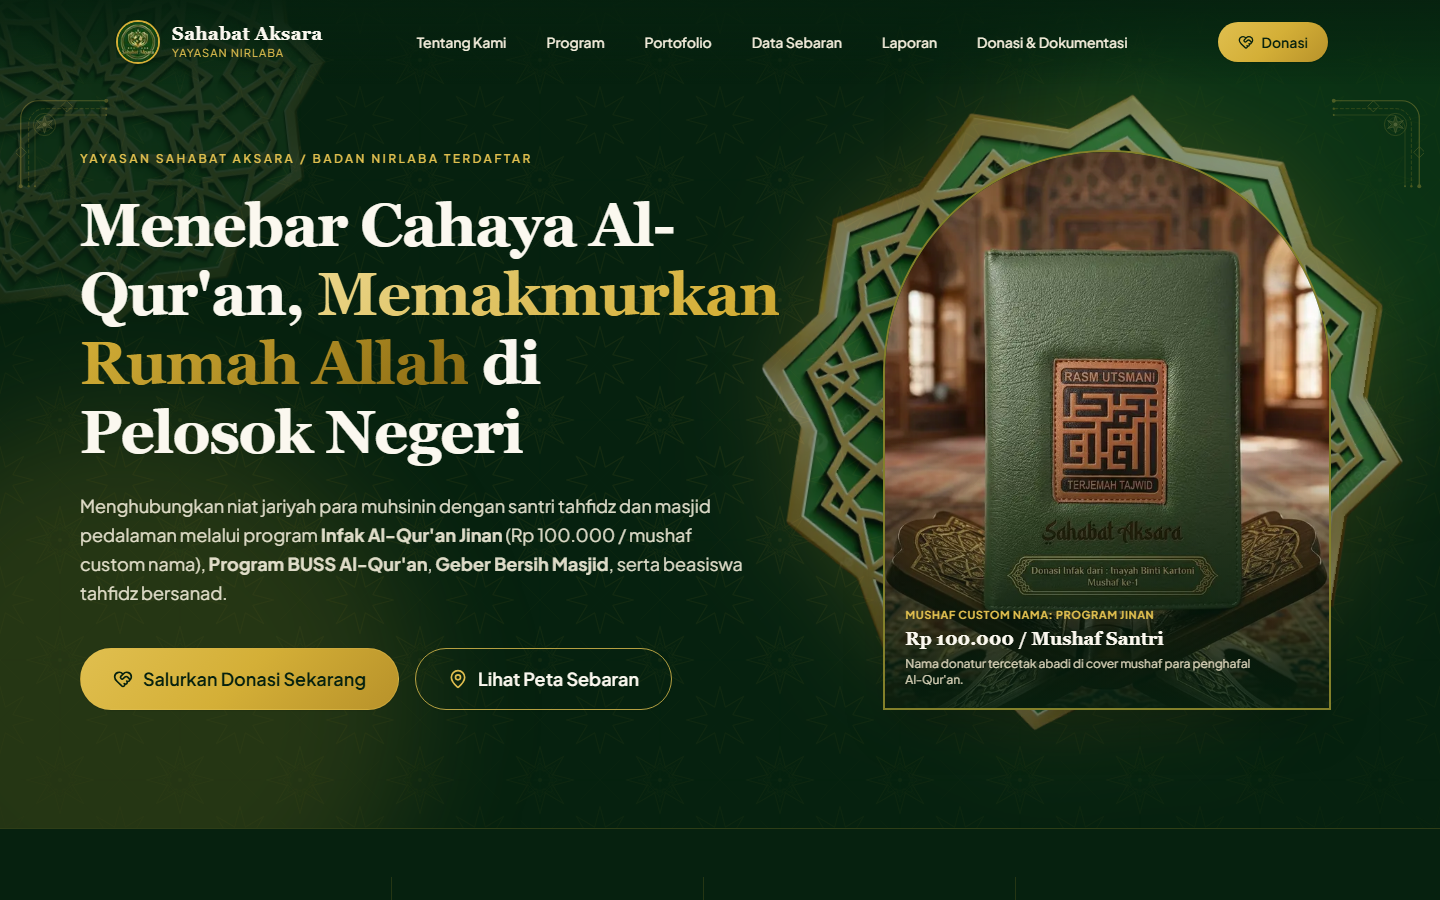
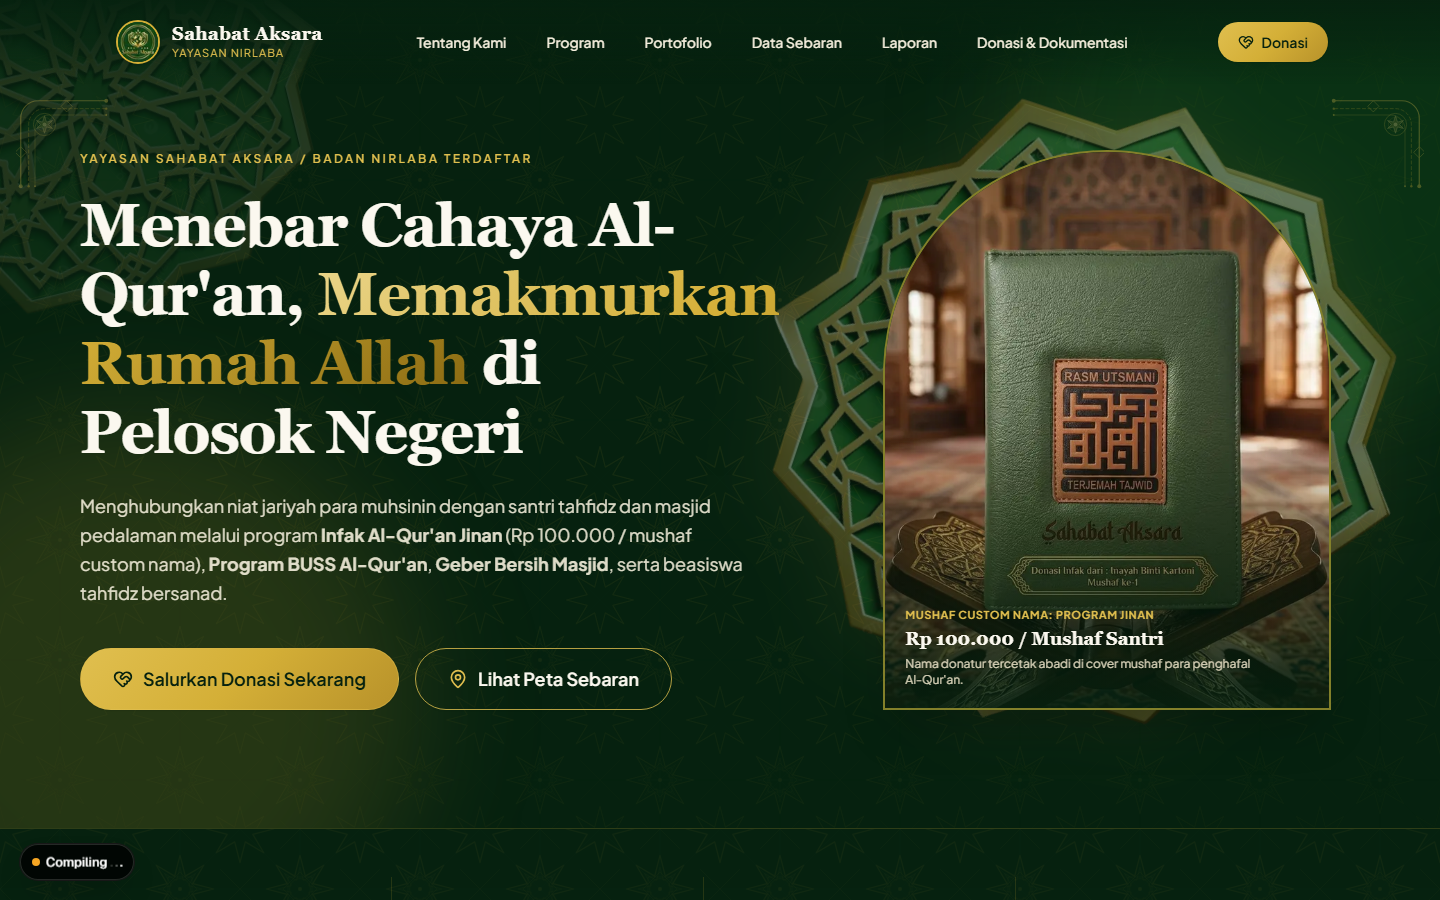
feat(ui): sesuaikan transparansi siluet mandala, motif seragam seluruh halaman publik, dan animasi zoom-in preloader

diff --git a/src/app/(public)/page.tsx b/src/app/(public)/page.tsx
@@ -19,6 +19,7 @@ import StatCounter from "@/components/motion/StatCounter";
 import HeroShowcase from "@/components/sections/HeroShowcase";
 import IndonesiaMap from "@/components/sections/IndonesiaMap";
 import Button from "@/components/ui/Button";
+import IslamicCornerOrnament from "@/components/ui/IslamicCornerOrnament";
 
 export const revalidate = 60;
 
@@ -60,7 +61,8 @@ export default async function HomePage() {
       <HeroShowcase totalMushaf={stats.totalMushaf} totalMasjid={stats.totalMasjid} />
 
       {/* 2. PROOF & MARQUEE STRIP (Integrated Metrics & Values) */}
-      <section className="relative bg-[var(--green-950)] text-[var(--cream-50)] border-t border-b border-[var(--gold-500)]/20">
+      <section className="relative bg-[var(--green-950)] text-[var(--cream-50)] border-t border-b border-[var(--gold-500)]/20 overflow-hidden">
+        <div className="absolute inset-0 bg-islamic-pattern opacity-15 pointer-events-none" />
         {/* Metric Bar Monolitik */}
         <div className="max-w-7xl mx-auto px-4 sm:px-6 lg:px-8 py-10 sm:py-12">
           <div className="grid grid-cols-2 lg:grid-cols-4 gap-6 lg:gap-8 divide-y lg:divide-y-0 lg:divide-x divide-[var(--gold-500)]/15">
@@ -373,7 +375,23 @@ export default async function HomePage() {
       </section>
 
       {/* 5. LIVE BUKTI SEBARAN NASIONAL (Full-Bleed Dark Green-950) */}
-      <section className="py-24 sm:py-32 bg-[var(--green-950)] text-[var(--cream-50)] px-4 sm:px-6 lg:px-8 border-b border-[var(--gold-500)]/20">
+      <section className="py-24 sm:py-32 bg-[var(--green-950)] text-[var(--cream-50)] px-4 sm:px-6 lg:px-8 border-b border-[var(--gold-500)]/20 relative overflow-hidden">
+        <div className="absolute inset-0 bg-islamic-pattern opacity-20 pointer-events-none" />
+        {/* Islamic Star Mandala Watermark Silhouette */}
+        <div className="absolute -right-24 -top-24 w-[480px] h-[480px] opacity-15 pointer-events-none select-none will-change-transform animate-spin-slow">
+          <Image
+            src="/images/ornaments/islamic-star-mandala.webp"
+            alt=""
+            fill
+            className="object-contain"
+          />
+        </div>
+        <div className="absolute top-6 left-6 opacity-25 pointer-events-none select-none hidden sm:block">
+          <IslamicCornerOrnament size={80} />
+        </div>
+        <div className="absolute top-6 right-6 opacity-25 pointer-events-none select-none -scale-x-100 hidden sm:block">
+          <IslamicCornerOrnament size={80} />
+        </div>
         <div className="max-w-7xl mx-auto space-y-10">
           <div className="text-center max-w-3xl mx-auto">
             <div className="text-xs uppercase tracking-[0.2em] text-[var(--gold-400)] font-semibold mb-2">
@@ -508,6 +526,29 @@ export default async function HomePage() {
       {/* 7. GRAND CALL TO ACTION (Full-Bleed Dark Green-950) */}
       <section className="py-24 sm:py-32 bg-[var(--green-950)] text-[var(--cream-50)] text-center px-4 relative overflow-hidden">
         <div className="absolute inset-0 bg-islamic-pattern opacity-25 pointer-events-none" />
+        {/* Islamic Star Mandala Watermark Silhouette */}
+        <div className="absolute -left-28 -bottom-28 w-[500px] h-[500px] opacity-15 pointer-events-none select-none will-change-transform animate-spin-slow">
+          <Image
+            src="/images/ornaments/islamic-star-mandala.webp"
+            alt=""
+            fill
+            className="object-contain"
+          />
+        </div>
+        <div className="absolute -right-28 -top-28 w-[500px] h-[500px] opacity-15 pointer-events-none select-none will-change-transform animate-spin-reverse-slow">
+          <Image
+            src="/images/ornaments/islamic-star-mandala.webp"
+            alt=""
+            fill
+            className="object-contain"
+          />
+        </div>
+        <div className="absolute top-6 left-6 opacity-25 pointer-events-none select-none hidden sm:block">
+          <IslamicCornerOrnament size={80} />
+        </div>
+        <div className="absolute top-6 right-6 opacity-25 pointer-events-none select-none -scale-x-100 hidden sm:block">
+          <IslamicCornerOrnament size={80} />
+        </div>
         <div className="relative z-10 max-w-3xl mx-auto flex flex-col items-center">
           <div className="text-xs uppercase tracking-[0.2em] text-[var(--gold-400)] font-semibold mb-4">
             Sedekah Jariyah Mengalir Tiada Putus

diff --git a/src/components/motion/Preloader.tsx b/src/components/motion/Preloader.tsx
@@ -58,8 +58,9 @@ export default function Preloader() {
     }
     if (curtainRef.current) {
       gsap.to(curtainRef.current, {
-        yPercent: -100,
-        duration: 0.35,
+        scale: 1.35,
+        opacity: 0,
+        duration: 0.4,
         ease: "power2.inOut",
         onComplete: handleComplete,
       });
@@ -117,7 +118,7 @@ export default function Preloader() {
         tl.to(
           mandalaRef.current,
           {
-            opacity: 0.9,
+            opacity: 0.42,
             scale: 1,
             duration: 1.2,
             ease: "power2.out",
@@ -239,45 +240,47 @@ export default function Preloader() {
         );
       }
 
-      // 6. Living Ambient Breathing on Emblem (2.2s -> 4.3s)
+      // 6. Living Ambient Breathing on Emblem (2.0s -> 2.8s)
       if (emblemRef.current) {
         tl.to(
           emblemRef.current,
           {
             scale: 1.03,
-            duration: 1.0,
+            duration: 0.8,
             yoyo: true,
             repeat: 1,
             ease: "sine.inOut",
           },
-          2.2
+          2.0
         );
       }
 
-      // 7. Content Soft Fade Out (4.3s -> 4.55s)
+      // 7. Cinematic Zoom-In Exit Transition (2.8s -> 3.55s)
+      // Content & Emblem zoom in towards the camera/viewer
       if (contentRef.current) {
         tl.to(
           contentRef.current,
           {
+            scale: 1.85,
             opacity: 0,
-            y: -14,
-            duration: 0.25,
+            duration: 0.65,
             ease: "power2.in",
           },
-          4.3
+          2.8
         );
       }
 
-      // 8. Green Curtain Wipe Up (4.55s -> 5.1s)
+      // 8. Green Curtain expands and dissolves into the home page
       if (curtainRef.current) {
         tl.to(
           curtainRef.current,
           {
-            yPercent: -100,
-            duration: 0.55,
-            ease: "power4.inOut",
+            scale: 1.35,
+            opacity: 0,
+            duration: 0.75,
+            ease: "power2.inOut",
           },
-          4.55
+          2.8
         );
       }
     }, containerRef);
@@ -352,13 +355,13 @@ export default function Preloader() {
             ref={emblemRef}
             className="relative w-44 h-44 sm:w-52 sm:h-52 flex items-center justify-center mb-6 will-change-transform"
           >
-            {/* Grand Islamic Star Mandala Medallion (from user motif) */}
+            {/* Grand Islamic Star Mandala Medallion (Silhouette Watermark) */}
             <div
               ref={mandalaRef}
-              className="absolute -inset-14 sm:-inset-20 pointer-events-none select-none flex items-center justify-center will-change-transform"
+              className="absolute -inset-14 sm:-inset-20 pointer-events-none select-none flex items-center justify-center will-change-transform mix-blend-screen"
               style={{ opacity: 0, transform: "scale(0.85)" }}
             >
-              <div className="relative w-64 h-64 sm:w-80 sm:h-80 drop-shadow-[0_0_35px_rgba(212,175,55,0.45)]">
+              <div className="relative w-64 h-64 sm:w-80 sm:h-80 drop-shadow-[0_0_25px_rgba(212,175,55,0.35)]">
                 <Image
                   src="/images/ornaments/islamic-star-mandala.webp"
                   alt="Motif Ornamen Bintang Geometri Islami Sahabat Aksara"

diff --git a/src/app/(public)/tentang/page.tsx b/src/app/(public)/tentang/page.tsx
@@ -5,6 +5,7 @@ import InteractiveLogoHotspots from "@/components/sections/InteractiveLogoHotspo
 import Button from "@/components/ui/Button";
 import PageHeader from "@/components/ui/PageHeader";
 import { Quote, HeartHandshake, ShieldCheck } from "lucide-react";
+import IslamicCornerOrnament from "@/components/ui/IslamicCornerOrnament";
 
 export const metadata: Metadata = {
   title: "Tentang Kami & Makna Filosofis Logo",
@@ -169,6 +170,21 @@ export default function TentangPage() {
       {/* 4. VISI & MISI (Sacral Dark Emerald Section) */}
       <section className="py-24 sm:py-32 bg-[var(--green-950)] text-[var(--cream-50)] px-4 sm:px-6 lg:px-8 relative overflow-hidden border-y border-[var(--gold-500)]/20">
         <div className="absolute inset-0 bg-islamic-pattern opacity-25 pointer-events-none" />
+        {/* Islamic Star Mandala Watermark Silhouette */}
+        <div className="absolute -right-24 top-10 w-[500px] h-[500px] opacity-15 pointer-events-none select-none will-change-transform animate-spin-slow">
+          <Image
+            src="/images/ornaments/islamic-star-mandala.webp"
+            alt=""
+            fill
+            className="object-contain"
+          />
+        </div>
+        <div className="absolute top-6 left-6 opacity-25 pointer-events-none select-none hidden sm:block">
+          <IslamicCornerOrnament size={80} />
+        </div>
+        <div className="absolute top-6 right-6 opacity-25 pointer-events-none select-none -scale-x-100 hidden sm:block">
+          <IslamicCornerOrnament size={80} />
+        </div>
         <div className="relative z-10 max-w-5xl mx-auto space-y-16">
           {/* Vision Statement */}
           <div className="text-center space-y-4 max-w-3xl mx-auto">
@@ -277,6 +293,21 @@ export default function TentangPage() {
       {/* 7. GRAND CALL TO ACTION */}
       <section className="py-24 bg-[var(--green-950)] text-[var(--cream-50)] text-center px-4 relative overflow-hidden">
         <div className="absolute inset-0 bg-islamic-pattern opacity-25 pointer-events-none" />
+        {/* Islamic Star Mandala Watermark Silhouette */}
+        <div className="absolute -left-24 -bottom-24 w-[480px] h-[480px] opacity-15 pointer-events-none select-none will-change-transform animate-spin-slow">
+          <Image
+            src="/images/ornaments/islamic-star-mandala.webp"
+            alt=""
+            fill
+            className="object-contain"
+          />
+        </div>
+        <div className="absolute top-6 left-6 opacity-25 pointer-events-none select-none hidden sm:block">
+          <IslamicCornerOrnament size={80} />
+        </div>
+        <div className="absolute top-6 right-6 opacity-25 pointer-events-none select-none -scale-x-100 hidden sm:block">
+          <IslamicCornerOrnament size={80} />
+        </div>
         <div className="relative z-10 max-w-2xl mx-auto space-y-6">
           <h2 className="font-serif text-3xl sm:text-4xl font-bold leading-tight">
             Ingin Mengambil Bagian dalam Perjalanan Ini?

diff --git a/src/components/ui/PageHeader.tsx b/src/components/ui/PageHeader.tsx
@@ -1,6 +1,8 @@
 import Link from "next/link";
+import Image from "next/image";
 import { ChevronRight } from "lucide-react";
 import React from "react";
+import IslamicCornerOrnament from "@/components/ui/IslamicCornerOrnament";
 
 export interface BreadcrumbItem {
   label: string;
@@ -48,9 +50,38 @@ export default function PageHeader({
         type="application/ld+json"
         dangerouslySetInnerHTML={{ __html: JSON.stringify(breadcrumbLd) }}
       />
-      {/* Background Ambient Glow */}
-      <div className="absolute -top-32 right-10 w-80 h-80 bg-[var(--green-800)]/30 rounded-full blur-3xl pointer-events-none" />
-      <div className="absolute -bottom-32 left-10 w-80 h-80 bg-[var(--gold-500)]/10 rounded-full blur-3xl pointer-events-none" />
+      {/* 1. Authentic Islamic Geometric Pattern Background Texture */}
+      <div
+        className="absolute inset-0 bg-islamic-pattern opacity-25 pointer-events-none"
+        style={{
+          maskImage:
+            "radial-gradient(ellipse 85% 75% at 50% 50%, rgba(0,0,0,0.95) 0%, rgba(0,0,0,0.4) 75%, transparent 100%)",
+          WebkitMaskImage:
+            "radial-gradient(ellipse 85% 75% at 50% 50%, rgba(0,0,0,0.95) 0%, rgba(0,0,0,0.4) 75%, transparent 100%)",
+        }}
+      />
+
+      {/* 2. Background Ambient Glow */}
+      <div className="absolute -top-32 right-10 w-96 h-96 bg-[var(--green-800)]/30 rounded-full blur-3xl pointer-events-none" />
+      <div className="absolute -bottom-32 left-10 w-96 h-96 bg-[var(--gold-500)]/12 rounded-full blur-3xl pointer-events-none" />
+
+      {/* 3. Islamic Star Mandala Watermark Silhouette (Right Flank) */}
+      <div className="absolute -right-20 sm:-right-12 top-1/2 -translate-y-1/2 w-[360px] h-[360px] sm:w-[480px] sm:h-[480px] opacity-25 sm:opacity-30 pointer-events-none select-none will-change-transform animate-spin-slow">
+        <Image
+          src="/images/ornaments/islamic-star-mandala.webp"
+          alt=""
+          fill
+          className="object-contain drop-shadow-[0_0_35px_rgba(212,175,55,0.25)]"
+        />
+      </div>
+
+      {/* 4. Corner Arabesque Accents */}
+      <div className="absolute top-24 left-4 opacity-25 pointer-events-none select-none hidden sm:block">
+        <IslamicCornerOrnament size={85} />
+      </div>
+      <div className="absolute top-24 right-4 opacity-25 pointer-events-none select-none -scale-x-100 hidden sm:block">
+        <IslamicCornerOrnament size={85} />
+      </div>
 
       <div className="relative z-10 max-w-7xl mx-auto px-4 sm:px-6 lg:px-8">
         {/* Breadcrumbs */}

diff --git a/src/components/ui/Footer.tsx b/src/components/ui/Footer.tsx
@@ -5,6 +5,7 @@ import Image from "next/image";
 import { usePathname } from "next/navigation";
 import { Heart, Mail, MapPin, ExternalLink } from "lucide-react";
 import { organizationContent } from "@/content/organization";
+import IslamicCornerOrnament from "@/components/ui/IslamicCornerOrnament";
 
 export default function Footer() {
   const pathname = usePathname();
@@ -14,6 +15,35 @@ export default function Footer() {
 
   return (
     <footer className="relative bg-[var(--green-950)] text-[var(--cream-100)] pt-16 pb-12 overflow-hidden border-t-2 border-[var(--gold-500)]/40">
+      {/* 1. Authentic Islamic Geometric Pattern Background Texture */}
+      <div
+        className="absolute inset-0 bg-islamic-pattern opacity-20 pointer-events-none"
+        style={{
+          maskImage:
+            "radial-gradient(ellipse 90% 80% at 50% 50%, rgba(0,0,0,0.95) 0%, rgba(0,0,0,0.4) 75%, transparent 100%)",
+          WebkitMaskImage:
+            "radial-gradient(ellipse 90% 80% at 50% 50%, rgba(0,0,0,0.95) 0%, rgba(0,0,0,0.4) 75%, transparent 100%)",
+        }}
+      />
+
+      {/* 2. Islamic Star Mandala Watermark Silhouette */}
+      <div className="absolute -right-28 -bottom-28 w-[480px] h-[480px] opacity-15 pointer-events-none select-none will-change-transform animate-spin-slow">
+        <Image
+          src="/images/ornaments/islamic-star-mandala.webp"
+          alt=""
+          fill
+          className="object-contain drop-shadow-[0_0_35px_rgba(212,175,55,0.2)]"
+        />
+      </div>
+
+      {/* 3. Corner Arabesque Accents */}
+      <div className="absolute top-4 left-4 opacity-25 pointer-events-none select-none hidden sm:block">
+        <IslamicCornerOrnament size={80} />
+      </div>
+      <div className="absolute top-4 right-4 opacity-25 pointer-events-none select-none -scale-x-100 hidden sm:block">
+        <IslamicCornerOrnament size={80} />
+      </div>
+
       <div className="relative max-w-7xl mx-auto px-4 sm:px-6 lg:px-8">
         <div className="grid grid-cols-1 md:grid-cols-2 lg:grid-cols-4 gap-10 pb-12 border-b border-[var(--gold-500)]/20">
           {/* Col 1: Identity & Legal */}

diff --git a/src/components/sections/HeroShowcase.tsx b/src/components/sections/HeroShowcase.tsx
@@ -31,13 +31,13 @@ export default function HeroShowcase(_props?: HeroShowcaseProps) {
       <div className="absolute -top-40 -right-40 w-[36rem] h-[36rem] bg-[var(--green-800)]/40 rounded-full blur-3xl pointer-events-none" />
       <div className="absolute -bottom-40 -left-40 w-[36rem] h-[36rem] bg-[var(--gold-500)]/15 rounded-full blur-3xl pointer-events-none" />
 
-      {/* 3. Grand Islamic Star Mandala Medallion (Right Side Framing Mushaf Jinan) */}
-      <div className="absolute -right-24 sm:-right-16 lg:right-4 top-1/2 -translate-y-1/2 w-[440px] h-[440px] sm:w-[560px] sm:h-[560px] lg:w-[680px] lg:h-[680px] opacity-40 lg:opacity-50 pointer-events-none select-none will-change-transform animate-spin-slow">
+      {/* 3. Grand Islamic Star Mandala Medallion (Right Side Framing Mushaf Jinan - Siluet Elegan) */}
+      <div className="absolute -right-24 sm:-right-16 lg:right-4 top-1/2 -translate-y-1/2 w-[440px] h-[440px] sm:w-[560px] sm:h-[560px] lg:w-[680px] lg:h-[680px] opacity-30 lg:opacity-35 pointer-events-none select-none will-change-transform animate-spin-slow">
         <Image
           src="/images/ornaments/islamic-star-mandala.webp"
           alt=""
           fill
-          className="object-contain drop-shadow-[0_0_50px_rgba(212,175,55,0.35)]"
+          className="object-contain drop-shadow-[0_0_35px_rgba(212,175,55,0.25)]"
           priority
         />
       </div>

diff --git a/src/app/(public)/donasi/page.tsx b/src/app/(public)/donasi/page.tsx
@@ -66,8 +66,9 @@ export default async function DonasiPage() {
         <BankAccountsList initialAccounts={bankAccounts} />
 
         {/* WhatsApp Confirmation Banner */}
-        <div className="p-8 sm:p-10 rounded-3xl bg-[var(--green-950)] text-[var(--cream-50)] border-2 border-[var(--gold-500)]/40 shadow-2xl flex flex-col md:flex-row items-center justify-between gap-8">
-          <div className="space-y-3 text-center md:text-left">
+        <div className="p-8 sm:p-10 rounded-3xl bg-[var(--green-950)] text-[var(--cream-50)] border-2 border-[var(--gold-500)]/40 shadow-2xl flex flex-col md:flex-row items-center justify-between gap-8 relative overflow-hidden">
+          <div className="absolute inset-0 bg-islamic-pattern opacity-20 pointer-events-none" />
+          <div className="relative z-10 space-y-3 text-center md:text-left">
             <span className="text-xs uppercase tracking-wider text-[var(--gold-400)] font-semibold">
               Layanan Konfirmasi Cepat
             </span>

diff --git a/src/app/(public)/laporan/page.tsx b/src/app/(public)/laporan/page.tsx
@@ -48,7 +48,8 @@ export default async function LaporanPage() {
       />
 
       {/* 2. AGGREGATE AUDIT BAR */}
-      <section className="bg-[var(--green-950)] text-[var(--cream-50)] border-b border-[var(--gold-500)]/20 py-8 px-4 sm:px-6 lg:px-8">
+      <section className="bg-[var(--green-950)] text-[var(--cream-50)] border-b border-[var(--gold-500)]/20 py-8 px-4 sm:px-6 lg:px-8 relative overflow-hidden">
+        <div className="absolute inset-0 bg-islamic-pattern opacity-15 pointer-events-none" />
         <div className="max-w-7xl mx-auto grid grid-cols-1 md:grid-cols-3 gap-6 divide-y md:divide-y-0 md:divide-x divide-[var(--gold-500)]/20">
           <div className="pt-2 md:pt-0 md:px-6 first:pt-0 first:px-0">
             <div className="text-[11px] font-bold uppercase tracking-wider text-[var(--gold-400)] mb-1">

diff --git a/src/app/(public)/data-sebaran/page.tsx b/src/app/(public)/data-sebaran/page.tsx
@@ -50,7 +50,8 @@ export default async function DataSebaranPage() {
       />
 
       {/* 2. TOP METRIC STRIP (Full-Width Command Bar) */}
-      <section className="bg-[var(--green-950)] text-[var(--cream-50)] border-b border-[var(--gold-500)]/20 py-8 px-4 sm:px-6 lg:px-8">
+      <section className="bg-[var(--green-950)] text-[var(--cream-50)] border-b border-[var(--gold-500)]/20 py-8 px-4 sm:px-6 lg:px-8 relative overflow-hidden">
+        <div className="absolute inset-0 bg-islamic-pattern opacity-15 pointer-events-none" />
         <div className="max-w-[1400px] mx-auto grid grid-cols-2 lg:grid-cols-4 gap-6 divide-y lg:divide-y-0 lg:divide-x divide-[var(--gold-500)]/15">
           <div className="pt-2 lg:pt-0 lg:px-6 first:pt-0 first:px-0">
             <StatCounter

diff --git a/src/app/(public)/portofolio/page.tsx b/src/app/(public)/portofolio/page.tsx
@@ -55,7 +55,8 @@ export default function PortofolioPage() {
       />
 
       {/* 2. PILLAR INTRO BANNER */}
-      <section className="bg-[var(--green-950)] text-[var(--cream-50)] border-b border-[var(--gold-500)]/20 py-8 px-4 sm:px-6 lg:px-8">
+      <section className="bg-[var(--green-950)] text-[var(--cream-50)] border-b border-[var(--gold-500)]/20 py-8 px-4 sm:px-6 lg:px-8 relative overflow-hidden">
+        <div className="absolute inset-0 bg-islamic-pattern opacity-15 pointer-events-none" />
         <div className="max-w-7xl mx-auto flex flex-col md:flex-row md:items-center justify-between gap-4 text-xs">
           <div className="flex items-center gap-2 text-[var(--gold-400)] font-semibold">
             <span>Karakter Produk Teknologi:</span>
